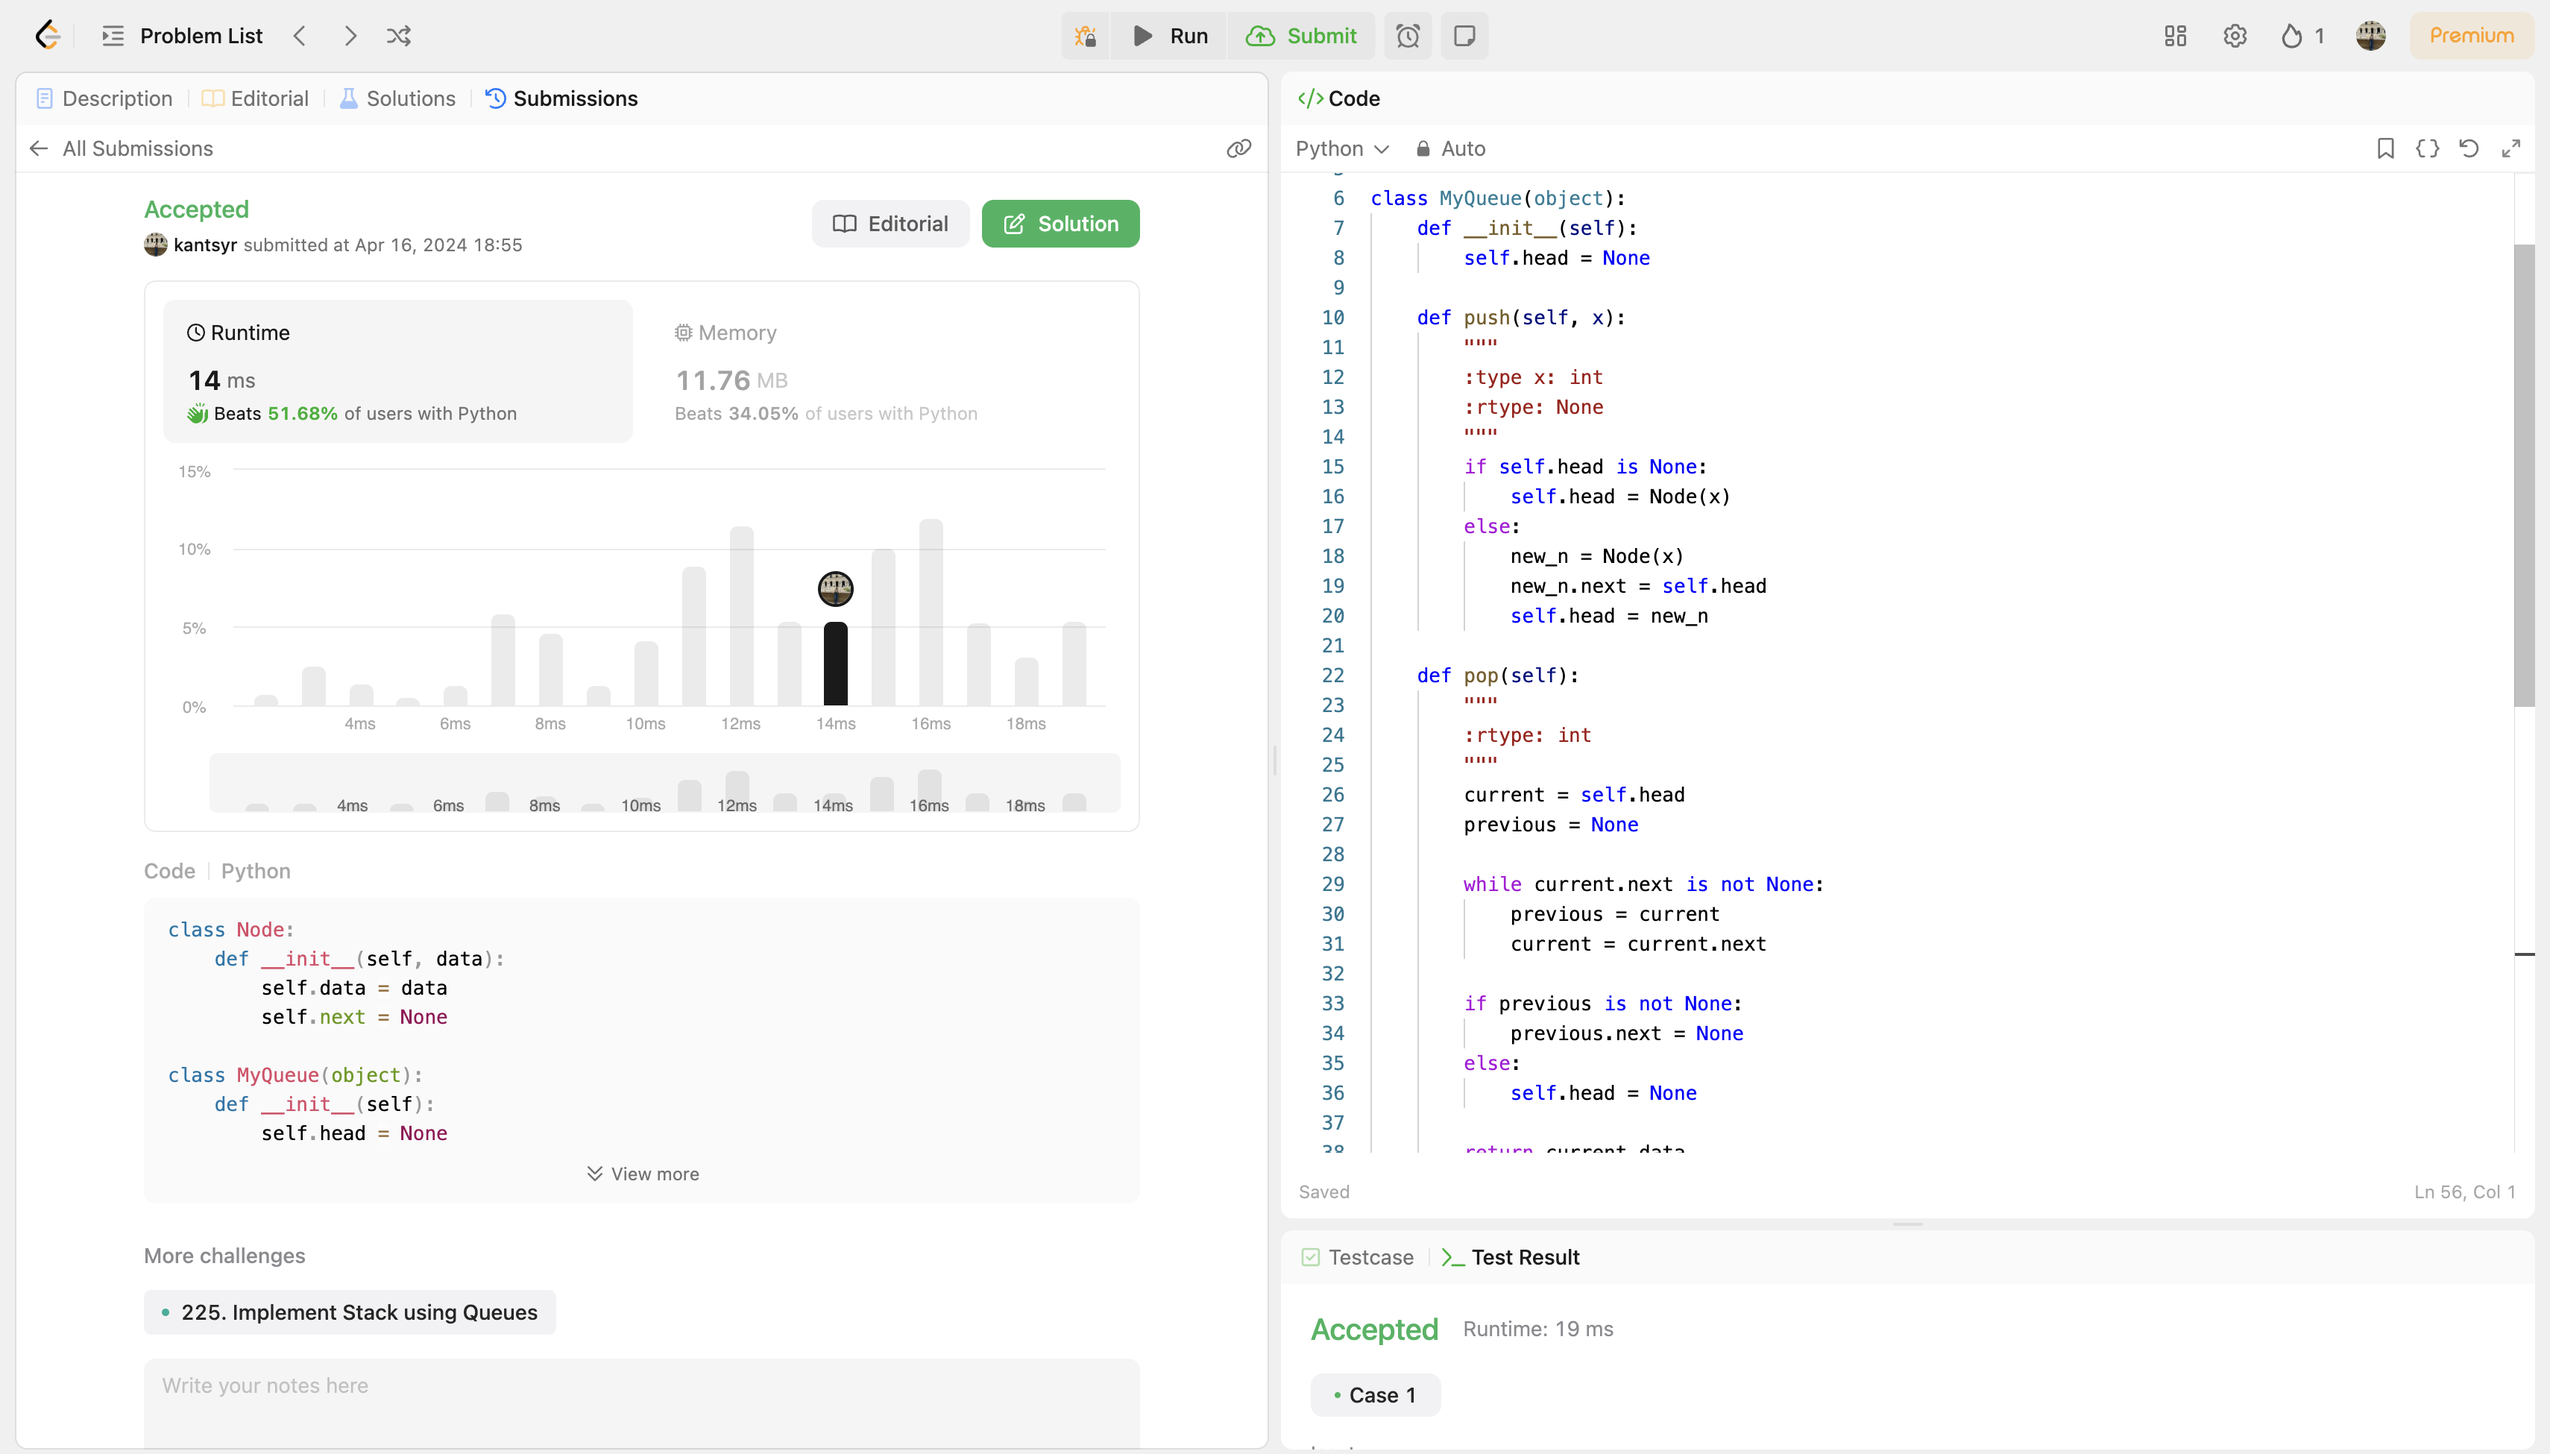
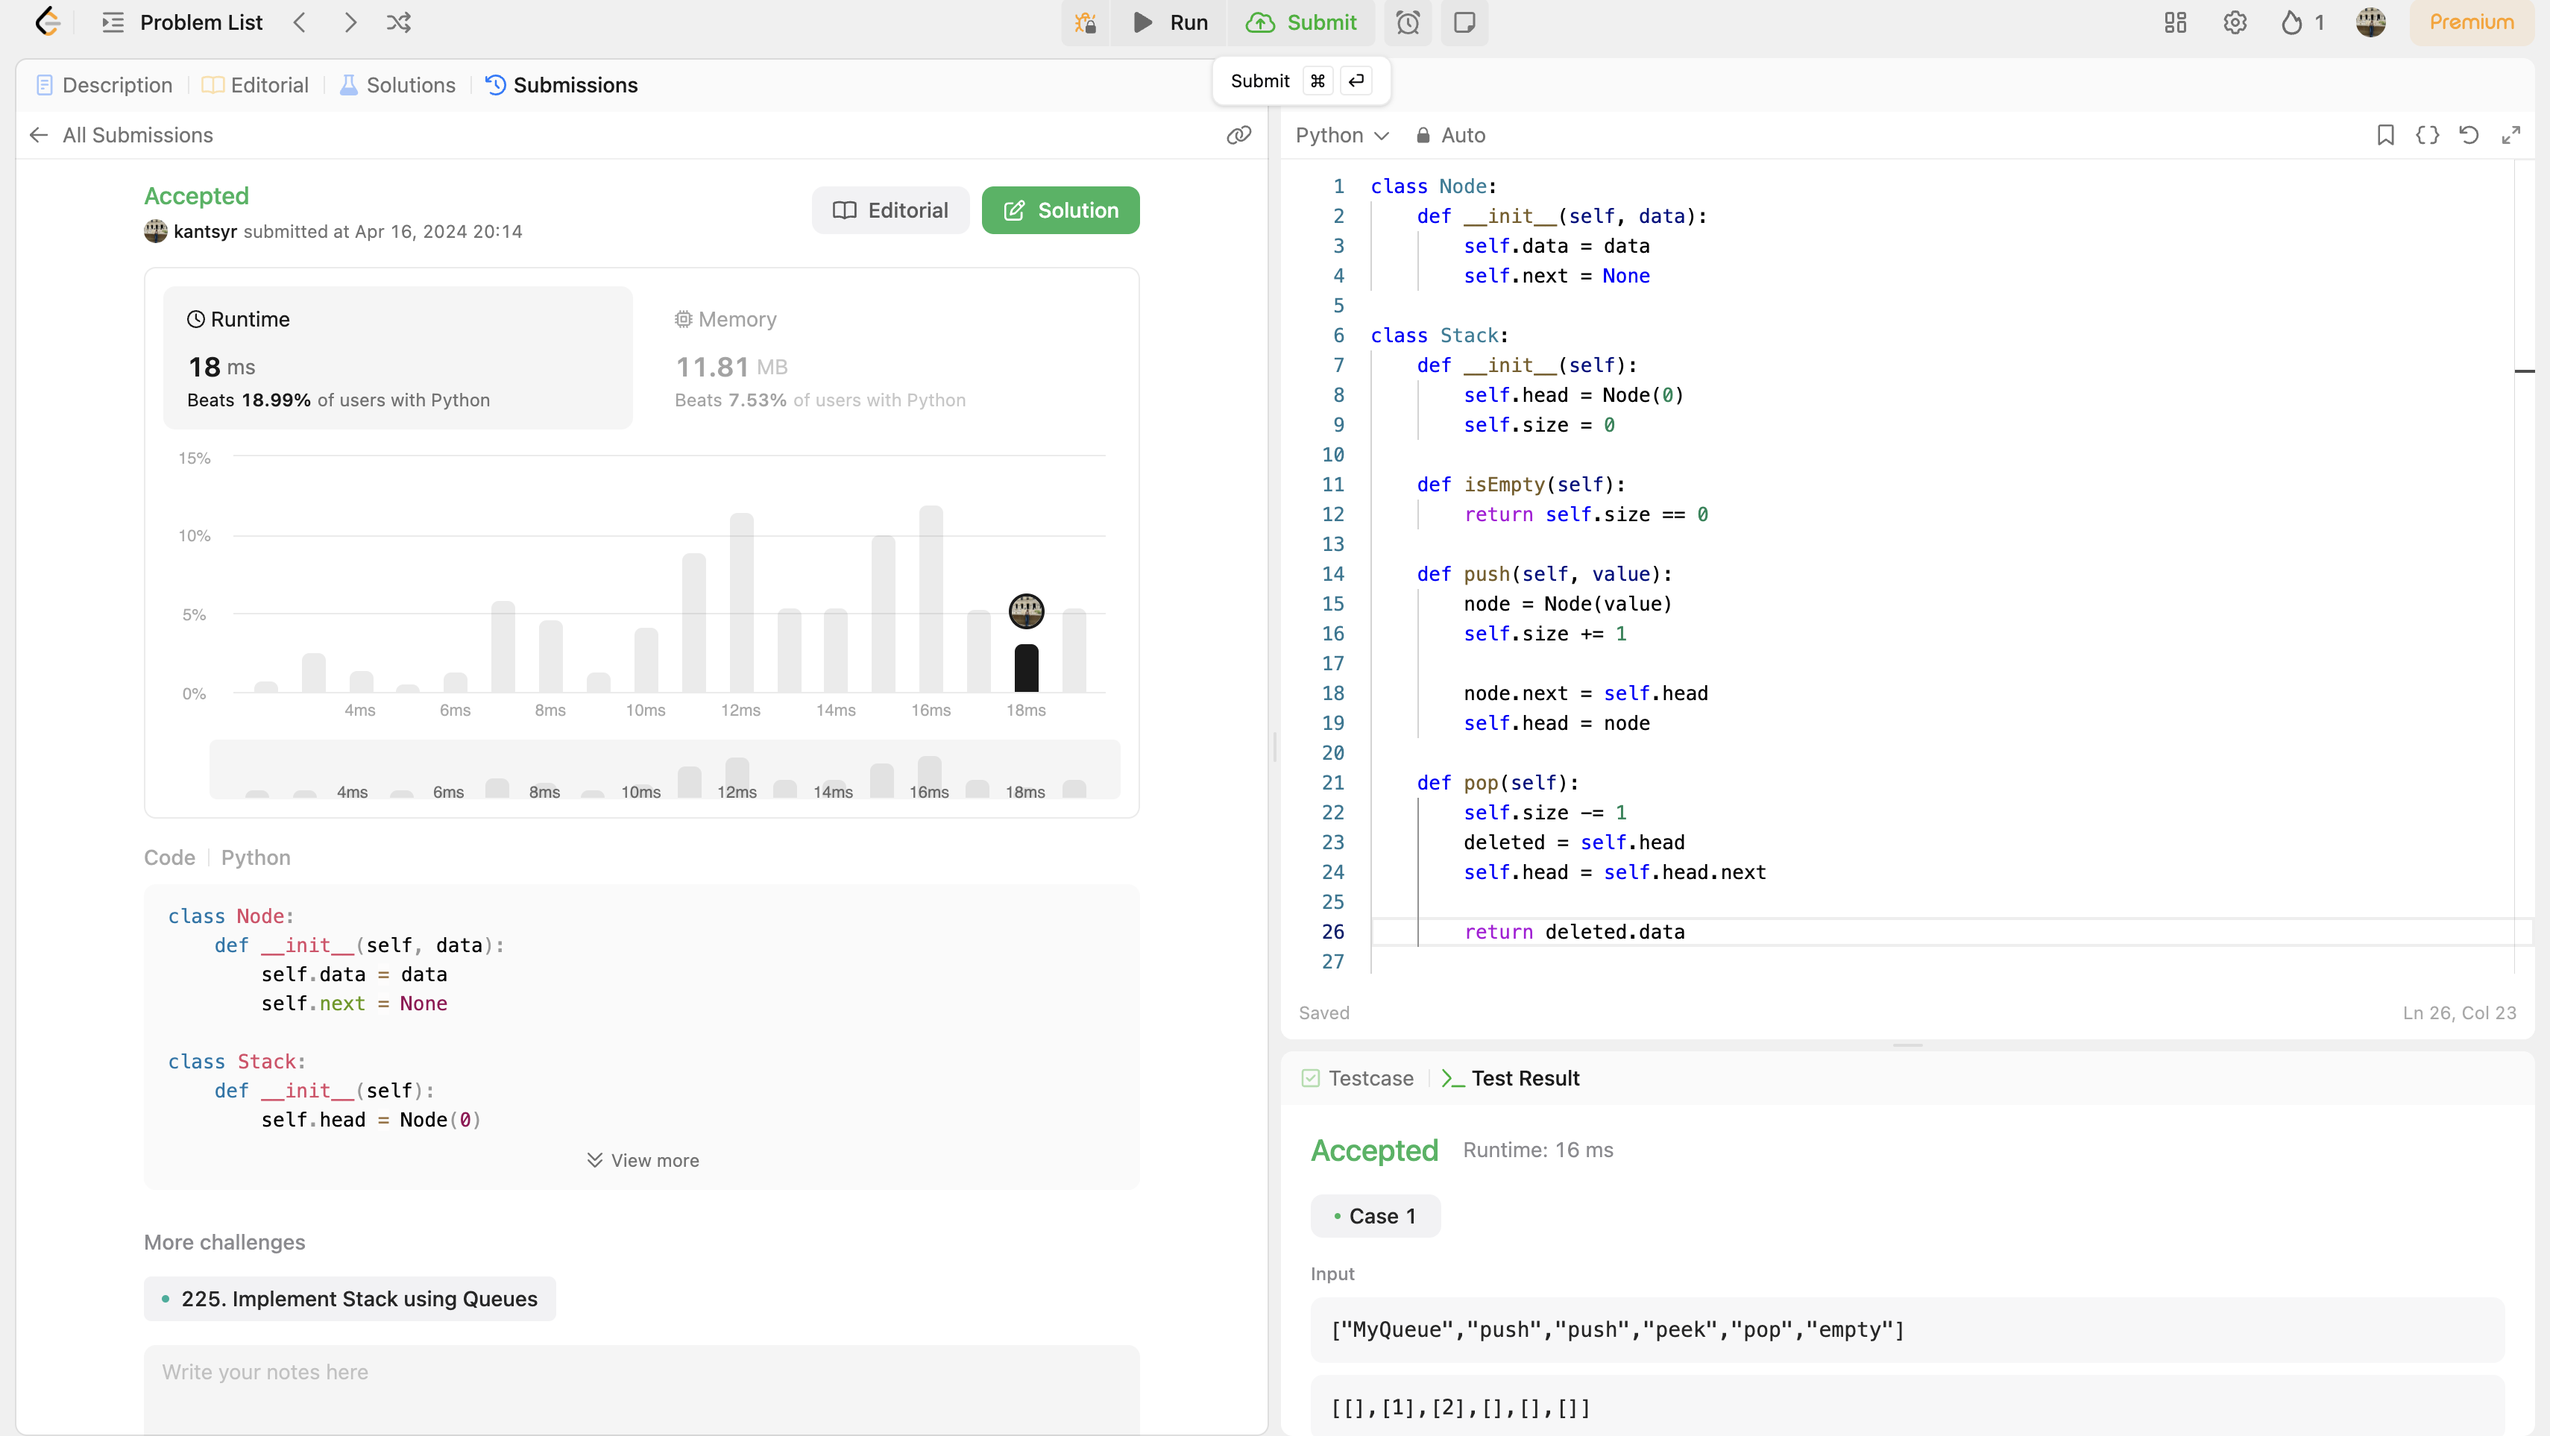
Correct implementation of Implement Queue using Stack task with all requirements

diff --git a/Implement Queue using Stacks/exercise_1.py b/Implement Queue using Stacks/exercise_1.py
@@ -3,53 +3,83 @@ class Node:
         self.data = data
         self.next = None
 
+class Stack:
+    def __init__(self):
+        self.head = Node(0)
+        self.size = 0
+
+    def isEmpty(self):
+        return self.size == 0
+
+    def push(self, value):
+        node = Node(value)
+        self.size += 1
+
+        node.next = self.head
+        self.head = node
+
+    def pop(self):
+        self.size -= 1
+        deleted = self.head
+        self.head = self.head.next
+
+        return deleted.data
+    
+    def peek(self):
+        return self.head.data
+    
 class MyQueue(object):
     def __init__(self):
-        self.head = None
+        self.queue = Stack()
 
     def push(self, x):
         """
         :type x: int
         :rtype: None
         """
-        if self.head is None:
-            self.head = Node(x)
-        else:
-            new_n = Node(x)
-            new_n.next = self.head
-            self.head = new_n
+        self.queue.push(x)
 
     def pop(self):
         """
         :rtype: int
         """
-        current = self.head
-        previous = None
+        new_q_1 = Stack()
+        new_q_2 = Stack()
 
-        while current.next is not None:
-            previous = current
-            current = current.next
+        while not self.queue.isEmpty():
+            new_q_1.push(self.queue.pop())
 
-        if previous is not None:
-            previous.next = None
-        else:
-            self.head = None
+        result = new_q_1.pop()
 
-        return current.data
+        while not new_q_1.isEmpty():
+            new_q_2.push(new_q_1.pop())
+
+        self.queue = new_q_2
+
+        return result
+
 
     def peek(self):
         """
         :rtype: int
         """
-        current = self.head
+        new_q_1 = Stack()
+        new_q_2 = Stack()
 
-        while current.next is not None:
-            current = current.next
+        while not self.queue.isEmpty():
+            new_q_1.push(self.queue.pop())
 
-        return current.data
+        result = new_q_1.peek()
+
+        while not new_q_1.isEmpty():
+            new_q_2.push(new_q_1.pop())
+
+        self.queue = new_q_2
+
+        return result
 
     def empty(self):
         """
         :rtype: bool
         """
-        return self.head is None
+        return self.queue.isEmpty()
